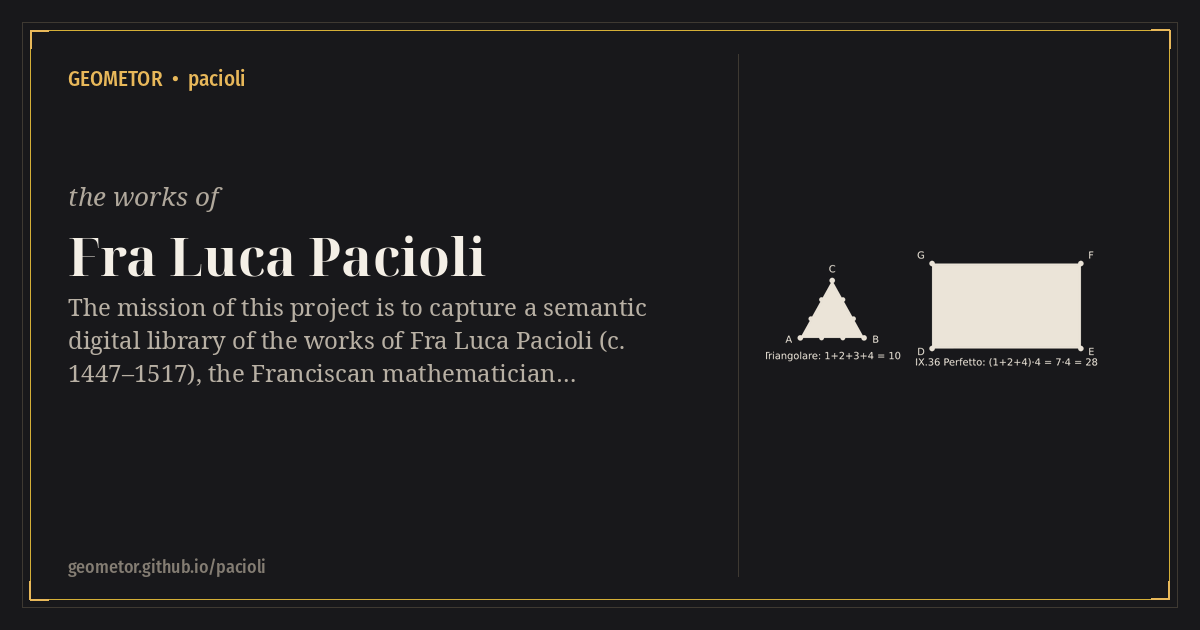
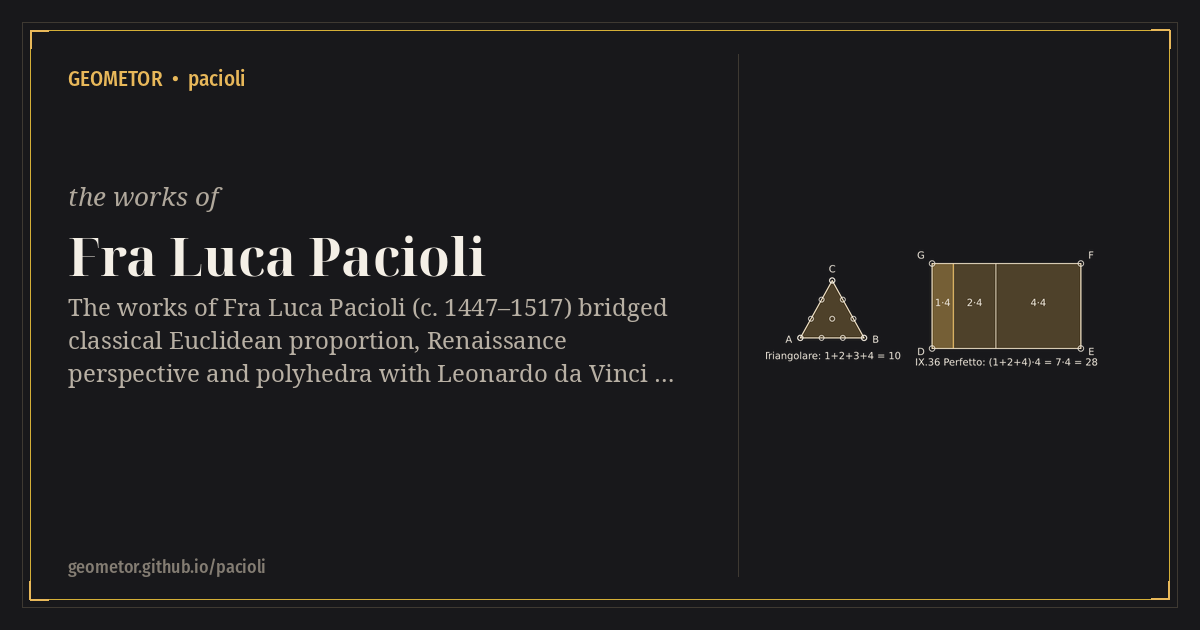
docs: add construction hero images, elevate English titles with native title tracks, and standardize track menus

Changed region(s): [[0.0617, 0.4524, 0.555, 0.6333], [0.7708, 0.3921, 0.925, 0.573], [0.6475, 0.4524, 0.74, 0.5429]]

diff --git a/docsrc/summa_1494/title-it.rst b/docsrc/summa_1494/title-it.rst
@@ -1,0 +1,45 @@
+:type: book_title
+:layout: book
+:title: Summa de Arithmetica, Geometria, Proportioni et Proportionalita
+:book_title: Summa de Arithmetica, Geometria, Proportioni et Proportionalita
+:book_subtitle: Fra Luca Pacioli (Venetia, 1494)
+:author: Fra Luca Pacioli
+:toc_label: Indice
+:persons_label: Indice dei Nomi
+:bibliography_label: Bibliografia
+:glossary_label: Glossario
+:tracks: English: index | Italian: title-it
+
+.. _summa-1494-title-it:
+
+===============================================================
+Summa de Arithmetica, Geometria, Proportioni et Proportionalita
+===============================================================
+
+.. rubric:: *Fra Luca Pacioli* — Venetia: Paganinus de Paganinis, MCCCCXCIIII
+
+.. container:: title-page
+
+   | **Autore:** :person:`Fra Luca Pacioli <pacioli>`, O.F.M. (c. 1447–1517)
+   | **Impressore:** :person:`Paganino de' Paganini <paganino-de-paganini>` (Venetia, Novembre 1494)
+   | **Patroni:** :person:`Guidobaldo da Montefeltro <guidobaldo-da-montefeltro>`, Duca d'Urbino & :person:`Marco Sanudo <marco-sanudo>`
+
+----
+
+Indice dell'Opera
+-----------------
+
+* Dedica et Arithmetica Speculativa: :doc:`Italian <dist_01_dedication_arithmetica/dist_01_dedication_arithmetica_it>` · :doc:`English <dist_01_dedication_arithmetica/dist_01_dedication_arithmetica_en>`
+* Algebra e Regola della Cosa: :doc:`Italian <dist_02_algebra_cosa/dist_02_algebra_cosa_it>` · :doc:`English <dist_02_algebra_cosa/dist_02_algebra_cosa_en>`
+* De Proportioni et Proportionalita: :doc:`Italian <dist_03_proportioni/dist_03_proportioni_it>` · :doc:`English <dist_03_proportioni/dist_03_proportioni_en>`
+* De Computis et Scripturis: :doc:`Italian <dist_04_computis_quaderno/dist_04_computis_quaderno_it>` · :doc:`English <dist_04_computis_quaderno/dist_04_computis_quaderno_en>`
+* Tractatus Geometriae: :doc:`Italian <dist_05_tractatus_geometriae/dist_05_tractatus_geometriae_it>` · :doc:`English <dist_05_tractatus_geometriae/dist_05_tractatus_geometriae_en>`
+
+----
+
+Apparato Critico
+----------------
+
+* :ref:`Bibliografia <summa-bibliography>`
+* :ref:`Indice dei Nomi <summa-persons>`
+* :ref:`Glossario <summa-glossary>`

diff --git a/docsrc/summa_1494/index.rst b/docsrc/summa_1494/index.rst
@@ -1,23 +1,25 @@
 :navigation: header
 :order: 2
 :type: book
-:nav_title: Summa de Arithmetica
-:breadcrumb_title: Summa de Arithmetica
+:title: Summary of Arithmetic, Geometry, Proportions and Proportionality
+:nav_title: Summa
+:breadcrumb_title: Summa
 :layout: book
-:book_title: Summa de Arithmetica, Geometria, Proportioni et Proportionalita
-:book_subtitle: Fra Luca Pacioli (Venice, 1494)
+:book_title: Summary of Arithmetic, Geometry, Proportions and Proportionality
+:book_subtitle: Summa de Arithmetica, Geometria, Proportioni et Proportionalita — Fra Luca Pacioli (Venice, 1494)
 :author: Fra Luca Pacioli
 :publisher: Paganinus de Paganinis de Brixia (Venice, Nov. 10–20, 1494)
 :year: 1494
+:tracks: English: index | Italian: title-it
 :excerpt: Pacioli's monumental 1494 Venetian compendium of speculative arithmetic, Hindu–Arabic algorism, Cossic algebra, Euclidean proportion theory, double-entry bookkeeping, and practical geometry.
 
 .. _summa-1494-index:
 
-===============================================================
-Summa de Arithmetica, Geometria, Proportioni et Proportionalita
-===============================================================
+====================================================================
+Summary of Arithmetic, Geometry, Proportions and Proportionality
+====================================================================
 
-.. rubric:: Fra Luca Pacioli (Venice, 1494)
+.. rubric:: *Summa de Arithmetica, Geometria, Proportioni et Proportionalita* — Fra Luca Pacioli (Venice, 1494)
 
 .. container:: title-page
 
@@ -59,7 +61,7 @@ Table of Contents
 .. toctree::
    :maxdepth: 1
    :hidden:
-   :caption: Italiano (1494)
+   :caption: Italian Edition
 
    dist_01_dedication_arithmetica/dist_01_dedication_arithmetica_it
    dist_02_algebra_cosa/dist_02_algebra_cosa_it
@@ -97,3 +99,10 @@ Table of Contents
    bibliography
    persons
    glossary
+
+.. toctree::
+   :maxdepth: 1
+   :hidden:
+   :caption: Title Pages
+
+   title-it

diff --git a/README.rst b/README.rst
@@ -3,6 +3,11 @@ GEOMETOR • pacioli
 
 **Visit the Online Archive:** https://geometor.github.io/pacioli/
 
+.. image:: docsrc/summa_1494/dist_01_dedication_arithmetica/fig_01_figurate_perfect.svg
+   :alt: GEOMETOR • pacioli featured geometric construction
+   :target: https://geometor.github.io/pacioli/
+   :align: center
+
 **Fra Luca Pacioli • De Divina Proportione, Summa de Arithmetica • semantic digital archive**
 
 Mission
@@ -13,8 +18,8 @@ Mission
 Books in This Archive
 ---------------------
 
-- **`De Divina Proportione <https://geometor.github.io/pacioli/de_divina_proportione/>`_** — Master treatise on the golden proportion, regular and semi-regular polyhedra illustrated with Leonardo da Vinci's sixty woodcut plates (Venice, 1509).
-- **`Summa de Arithmetica, Geometria, Proportioni et Proportionalita <https://geometor.github.io/pacioli/summa_1494/>`_** — Encyclopedic compendium of Renaissance arithmetic, Cossic algebra, practical geometry, proportion theory, and double-entry bookkeeping (Venice, 1494).
+- **`On the Divine Proportion <https://geometor.github.io/pacioli/de_divina_proportione/>`_** — *De Divina Proportione*, master treatise on the golden proportion, regular and semi-regular polyhedra illustrated with Leonardo da Vinci's sixty woodcut plates (Venice, 1509).
+- **`Summary of Arithmetic, Geometry, Proportions and Proportionality <https://geometor.github.io/pacioli/summa_1494/>`_** — *Summa de Arithmetica, Geometria, Proportioni et Proportionalita*, encyclopedic compendium of Renaissance arithmetic, Cossic algebra, practical geometry, proportion theory, and double-entry bookkeeping (Venice, 1494).
 
 Repository Contents
 -------------------

diff --git a/docsrc/de_divina_proportione/index.rst b/docsrc/de_divina_proportione/index.rst
@@ -1,24 +1,26 @@
 :navigation: header
 :order: 1
 :type: book
-:nav_title: De Divina Proportione
-:breadcrumb_title: De Divina Proportione
+:title: On the Divine Proportion
+:nav_title: Divine Proportion
+:breadcrumb_title: Divine Proportion
 :layout: book
-:book_title: De Divina Proportione
-:book_subtitle: On the Divine Proportion — Fra Luca Pacioli & Leonardo da Vinci (Venice, 1509)
+:book_title: On the Divine Proportion
+:book_subtitle: De Divina Proportione — Fra Luca Pacioli & Leonardo da Vinci (Venice, 1509)
 :author: Fra Luca Pacioli
 :publisher: Paganinus de Paganinis de Brixia (Venice, 1509)
 :year: 1509
+:tracks: English: index | Italian: title-it
 :excerpt: Pacioli's 1509 Venetian treatise on the Divine Proportion, the thirteen marvelous effects of Euclid's Book XIII, Vitruvian architecture, the Roman alphabet, and the sixty Platonic and Archimedean solids drawn by Leonardo da Vinci.
 
 .. _de-divina-proportione-index:
 .. _pacioli-index:
 
-=====================
-De Divina Proportione
-=====================
+=========================
+On the Divine Proportion
+=========================
 
-.. rubric:: *On the Divine Proportion* — Fra Luca Pacioli & Leonardo da Vinci (Venice, 1509)
+.. rubric:: *De Divina Proportione* — Fra Luca Pacioli & Leonardo da Vinci (Venice, 1509)
 
 .. container:: title-page
 
@@ -72,3 +74,10 @@ Table of Contents
    bibliography
    persons
    glossary
+
+.. toctree::
+   :maxdepth: 1
+   :hidden:
+   :caption: Title Pages
+
+   title-it

diff --git a/docsrc/de_divina_proportione/title-it.rst b/docsrc/de_divina_proportione/title-it.rst
@@ -1,0 +1,44 @@
+:type: book_title
+:layout: book
+:title: De Divina Proportione
+:book_title: De Divina Proportione
+:book_subtitle: Opera a tutti gl'ingegni perspicaci e curiosi necessaria — Fra Luca Pacioli (Venetia, 1509)
+:author: Fra Luca Pacioli
+:toc_label: Indice
+:persons_label: Indice dei Nomi
+:bibliography_label: Bibliografia
+:glossary_label: Glossario
+:tracks: English: index | Italian: title-it
+
+.. _de-divina-proportione-title-it:
+
+=====================
+De Divina Proportione
+=====================
+
+.. rubric:: *Fra Luca Pacioli & Leonardo da Vinci* — Venetia: Paganinus de Paganinis, MDIX
+
+.. container:: title-page
+
+   | **Autore:** :person:`Fra Luca Pacioli <pacioli>`, O.F.M. (c. 1447–1517)
+   | **Figure:** :person:`Leonardo da Vinci <leonardo>` (1452–1519)
+   | **Impressore:** :person:`Paganino de' Paganini <paganino-de-paganini>` (Venetia, I Giugno 1509)
+
+----
+
+Indice dell'Opera
+-----------------
+
+* :doc:`Introduzione Critica <intro/intro_en>`
+* :doc:`Parte Prima: Compendio de Divina Proportione (Cap. I–LXXI) <compendio/index>`
+* :doc:`Parte Seconda: Tractato de l'Architectura (Cap. I–XX) <architectura/index>`
+* :doc:`Tavole di Leonardo da Vinci: Poliedri, Alfabeto e Architettura <plates/index>`
+
+----
+
+Apparato Critico
+----------------
+
+* :doc:`Bibliografia <bibliography>`
+* :doc:`Indice dei Nomi <persons>`
+* :doc:`Glossario <glossary>`

diff --git a/docsrc/de_divina_proportione/architectura/index.rst b/docsrc/de_divina_proportione/architectura/index.rst
@@ -1,14 +1,14 @@
-:title: Part II: Tractato de l'Architectura
+:title: Part II: Treatise on Architecture
 :layout: book
 
 .. _architectura-index:
 
-Part II: Tractato de l'Architectura
-===================================
+Part II: Treatise on Architecture
+=================================
 
-.. rubric:: Prohemio & Chapters I–XX · Dedicated to the Stonemasons & Disciples of Borgo Sansepolcro (1509)
+.. rubric:: *Tractato de l'Architectura* — Prohemio & Chapters I–XX · Dedicated to the Stonemasons & Disciples of Borgo Sansepolcro (1509)
 
-Printed at Venice in 1509 (*Folios 0061–0082, f. 23r–33v*). Opening any chapter provides synchronized switching across **English**, **Italiano (1509)**, **Deutsch (1889)**, and **Critical Notes**.
+Printed at Venice in 1509 (*Folios 0061–0082, f. 23r–33v*). Opening any chapter provides synchronized switching across **English**, **Italian**, **German**, and **Notes**.
 
 ----
 
@@ -99,7 +99,7 @@ IV. Entablature, Porta Speciosa & Structural Harmony (Cap. XII–XX)
 .. toctree::
    :maxdepth: 1
    :hidden:
-   :caption: Prohemio & Capitoli I–XX (Italiano 1509)
+   :caption: Italian Edition
 
    dedication/dedication_it
    cap_01/cap_01_it
